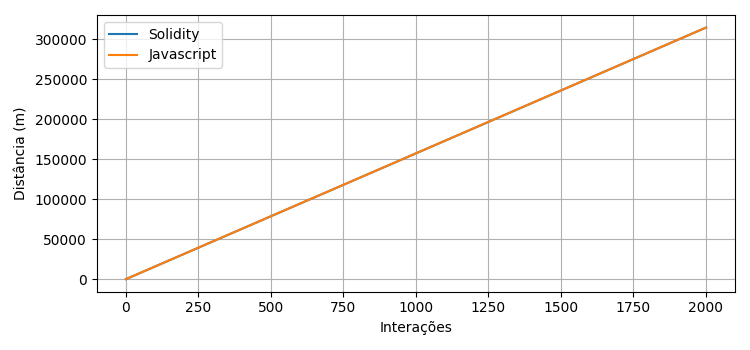
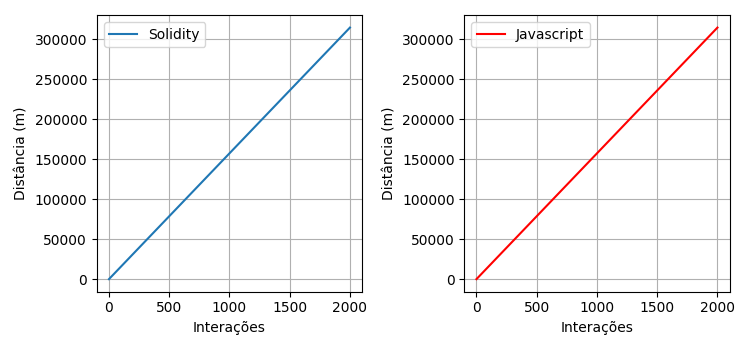
Add subplots

diff --git a/plot/errorLocation.py b/plot/errorLocation.py
@@ -6,14 +6,14 @@ def plot():
     plt.rcParams["figure.figsize"] = [7.50, 3.50]
     plt.rcParams["figure.autolayout"] = True
 
-    columns = ["Interação", "Solidity", "Javascript"]
+    columns = ["Interação", "Solidity", "Javascript", "Diferença"]
 
     df = pd.read_csv('./results/location/errorLoc.csv', delimiter=';',  names=columns)
+    
+    fig, axes = plt.subplots(nrows=1,ncols=2)
 
-    ax = df.set_index('Interação').plot(mark_right=False, grid=True)
-
-    ax.set_ylabel('Distância (m)')
-    ax.set_xlabel("Interações")
+    ax = df.plot(x='Interação', y='Solidity', mark_right=False, grid=True, ax=axes[0], subplots=True, xlabel="Interações", ylabel='Distância (m)')
+    ax = df.plot(x='Interação', y='Javascript', mark_right=False, grid=True, ax=axes[1], subplots=True, xlabel="Interações", ylabel='Distância (m)', style='r')
 
     dif = df['Javascript'] - df['Solidity']
     print(dif.max())
